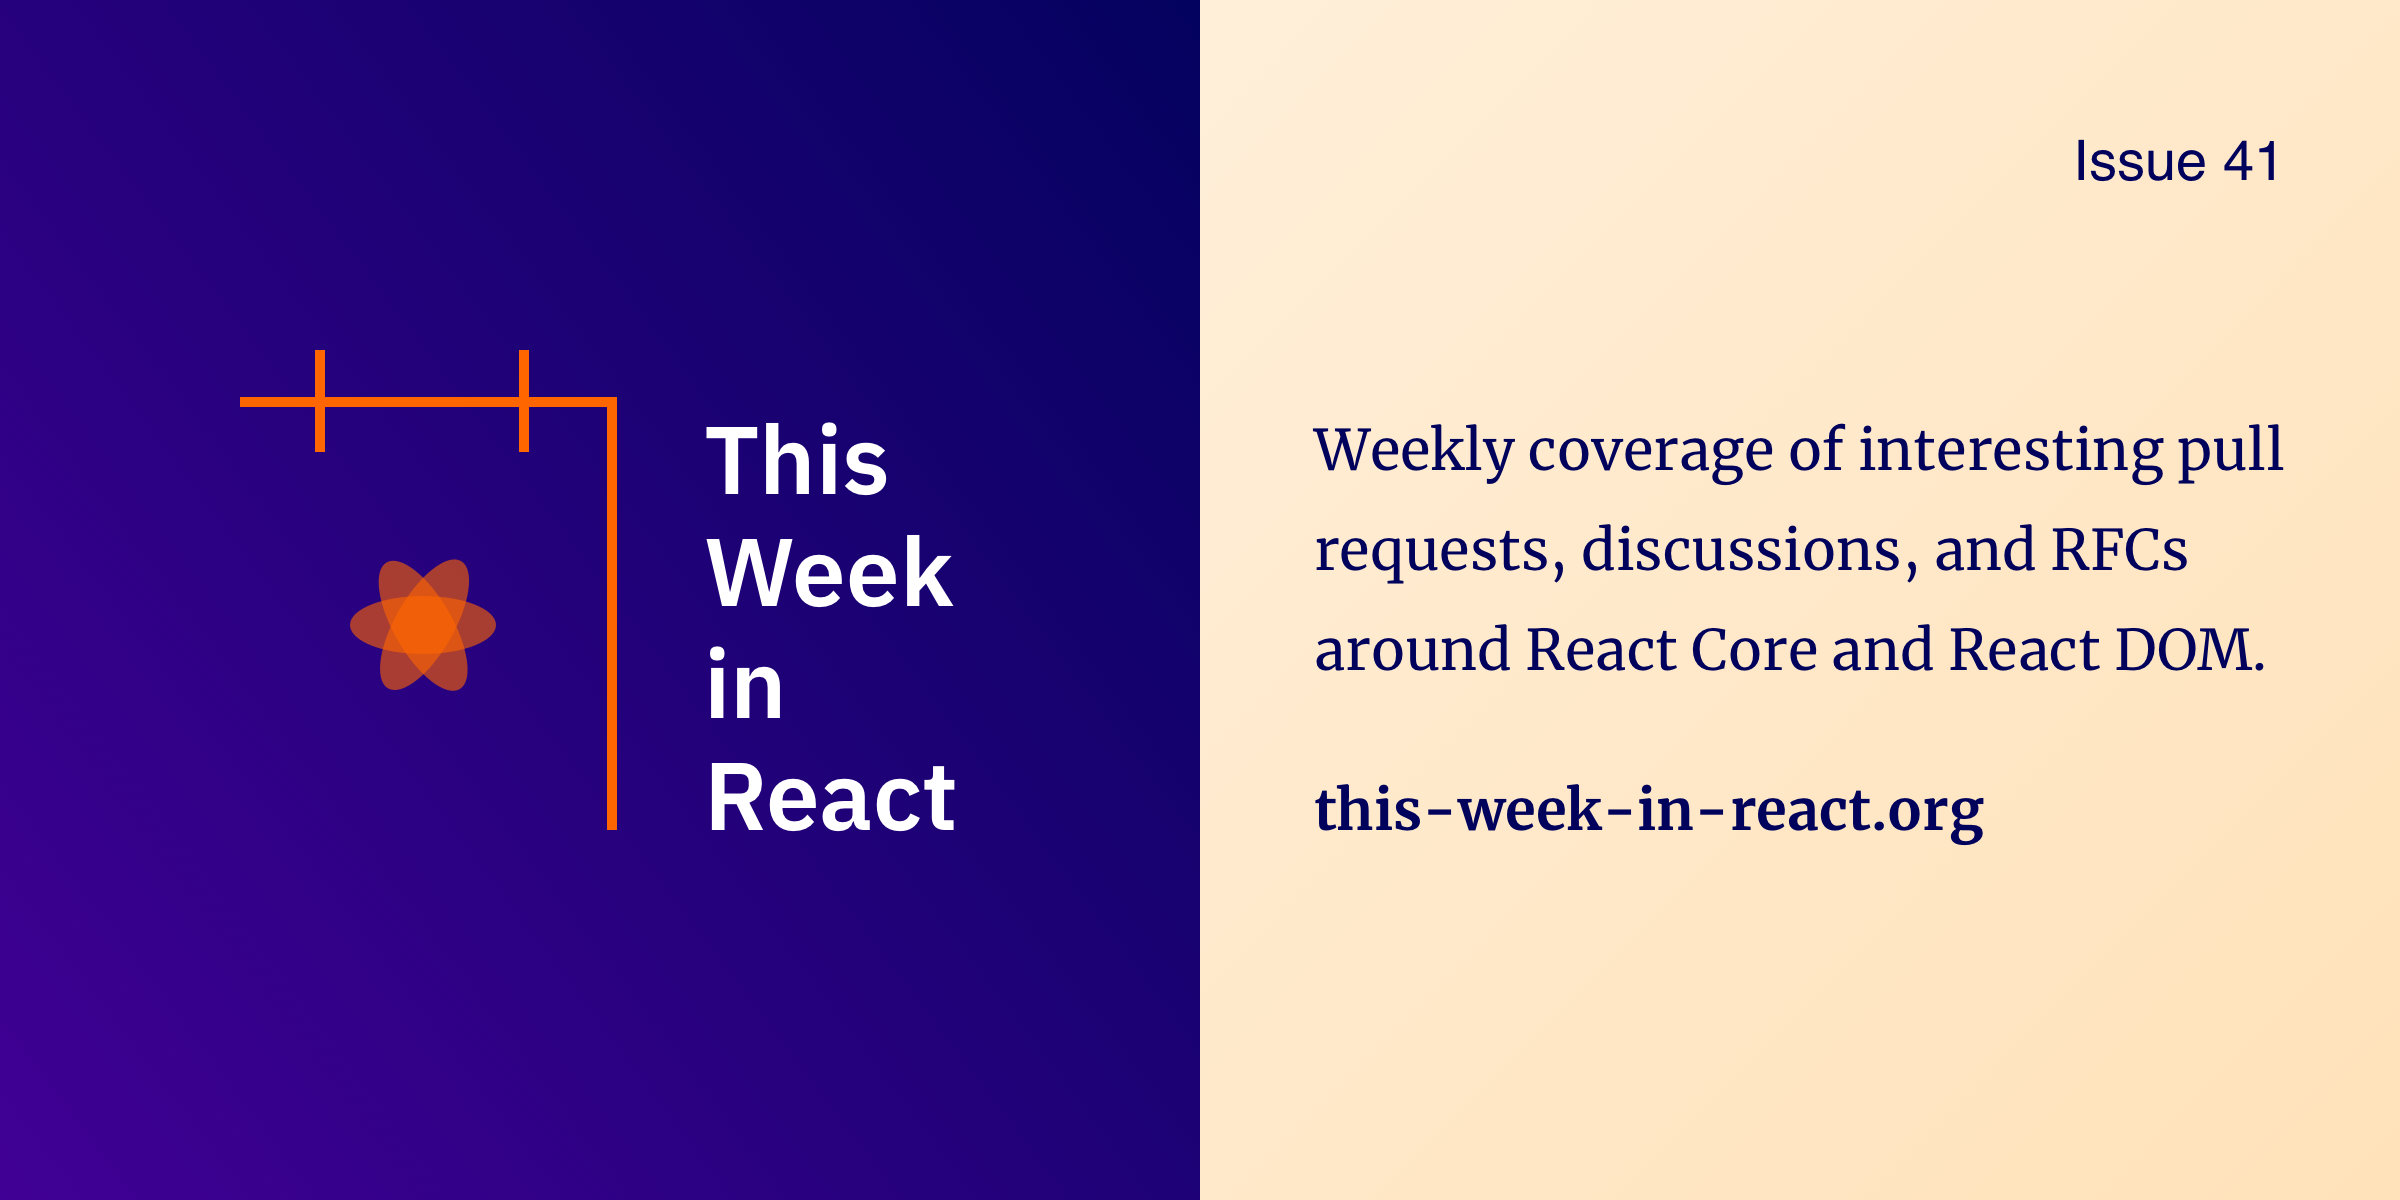
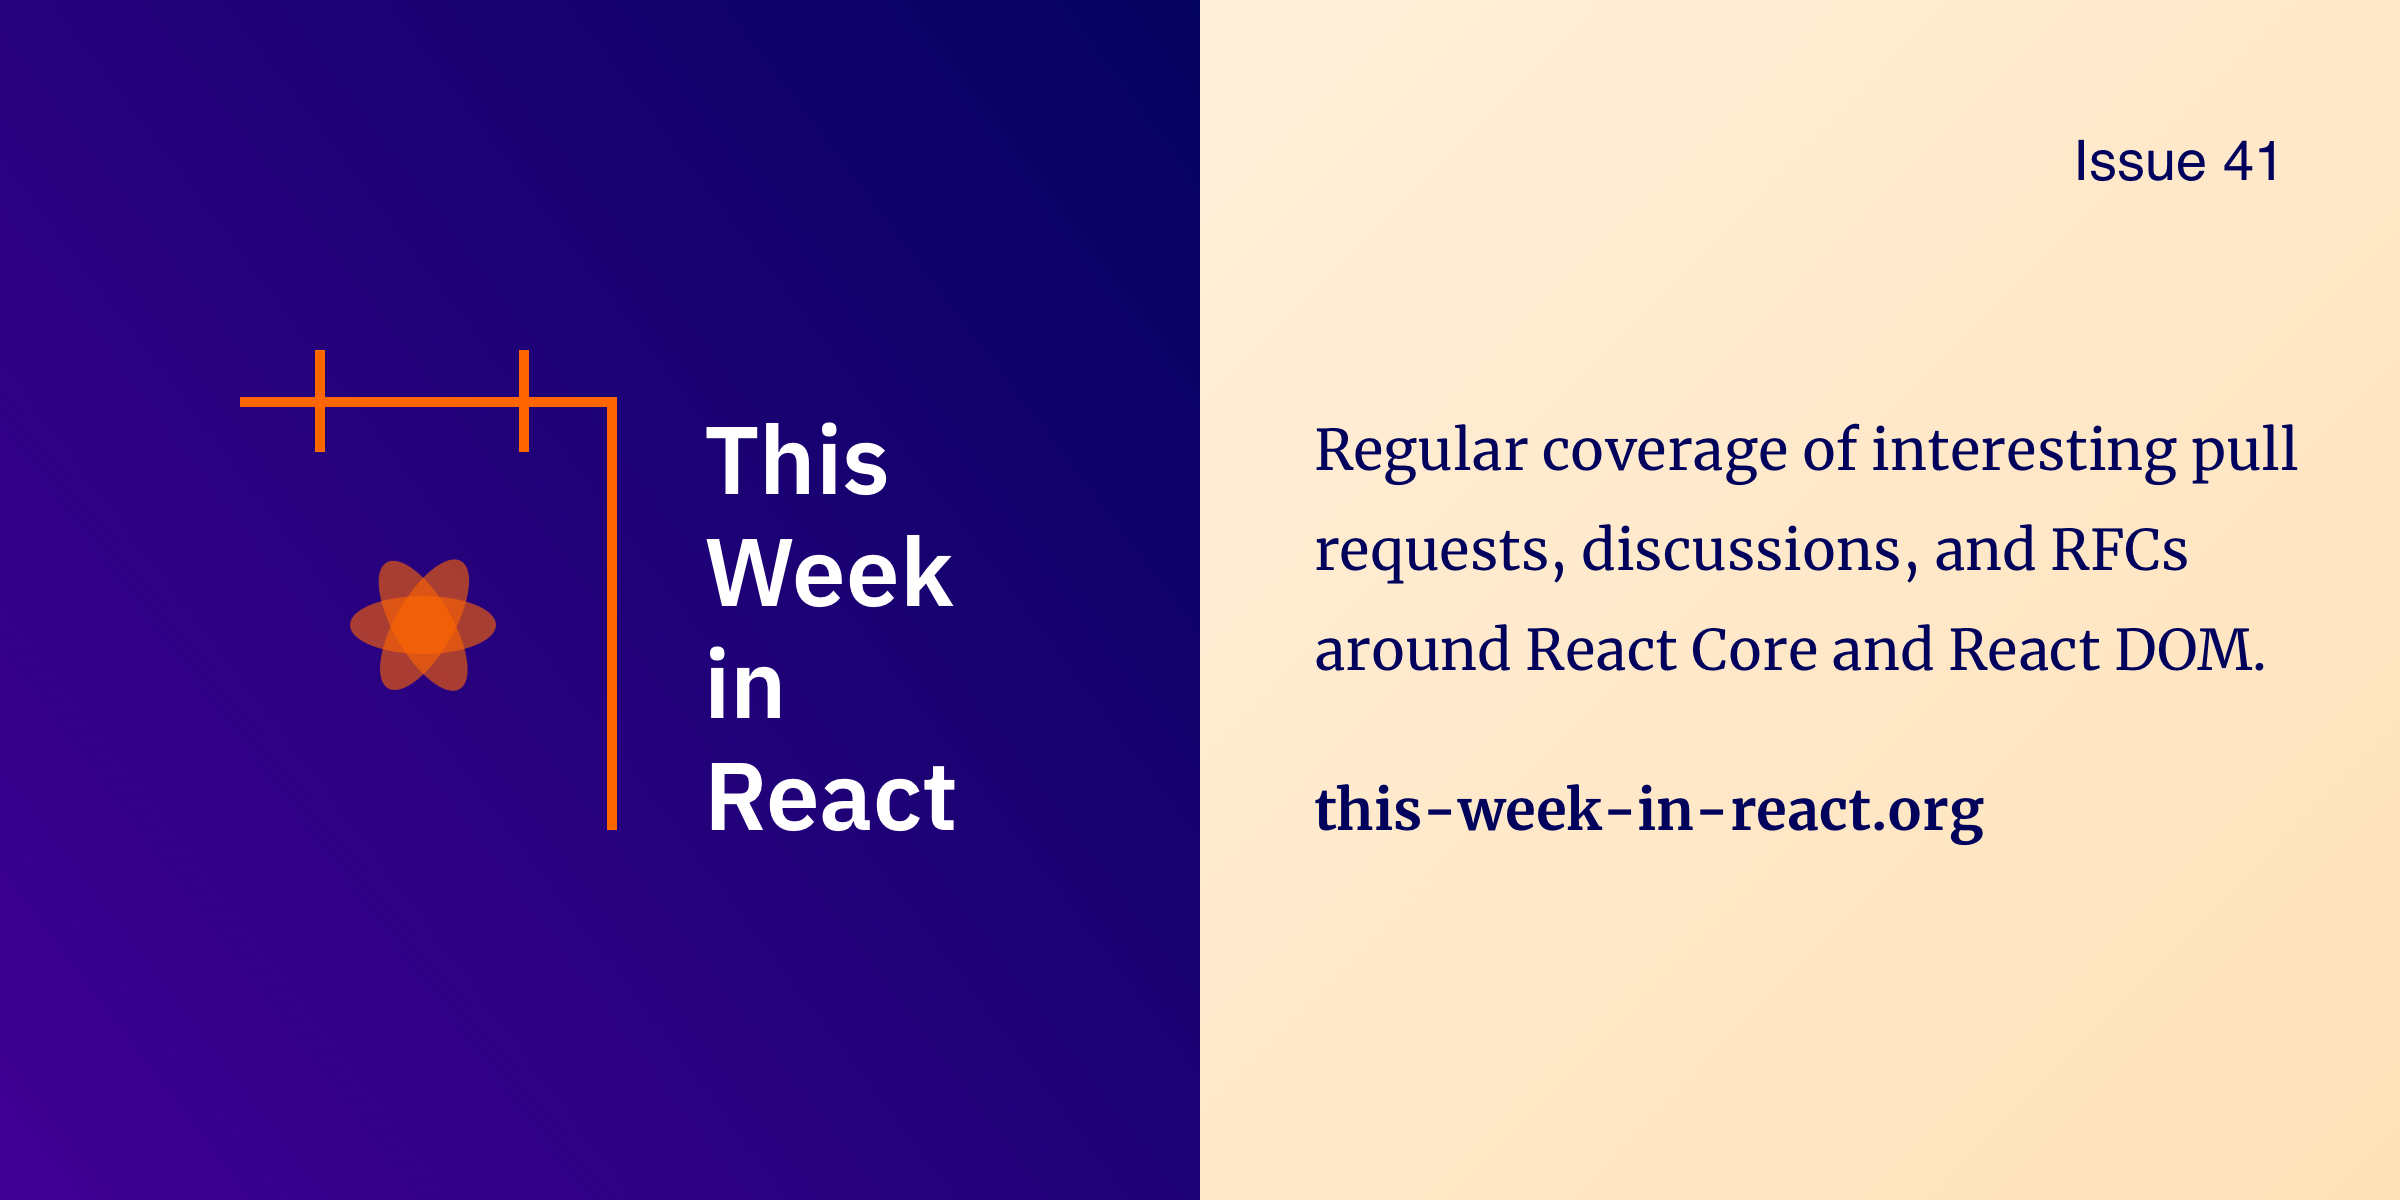
Remove the weekly part

Changed region(s): [[0.5312, 0.3392, 0.9688, 0.4008]]

diff --git a/src/containers/Layout.js b/src/containers/Layout.js
@@ -30,7 +30,7 @@ export default class Layout extends React.Component {
           <meta name="twitter:title" content="This Week in React ⚛" />
           <meta
             name="twitter:description"
-            content="Weekly coverage of interesting pull requests, discussions, and RFCs around React Core and React DOM."
+            content="Regular coverage of interesting pull requests, discussions, and RFCs around React Core and React DOM."
           />
           <meta name="twitter:image" content={TwitterCardPng} />
           <meta name="og:image" content={TwitterCardPng} />
@@ -43,7 +43,12 @@ export default class Layout extends React.Component {
 
         <div className="container">
           <div className="left">
-            <img src={LogoWithBgJpeg} hidden style={{ display: "none" }} lazyload />
+            <img
+              src={LogoWithBgJpeg}
+              hidden
+              style={{ display: "none" }}
+              lazyload
+            />
             <img
               src={LogoPng}
               width={180}
@@ -52,7 +57,7 @@ export default class Layout extends React.Component {
             />
 
             <p className="pitch">
-              Weekly coverage of interesting pull requests, discussions, and
+              Regular coverage of interesting pull requests, discussions, and
               RFCs around React Core and React DOM.
             </p>
 
